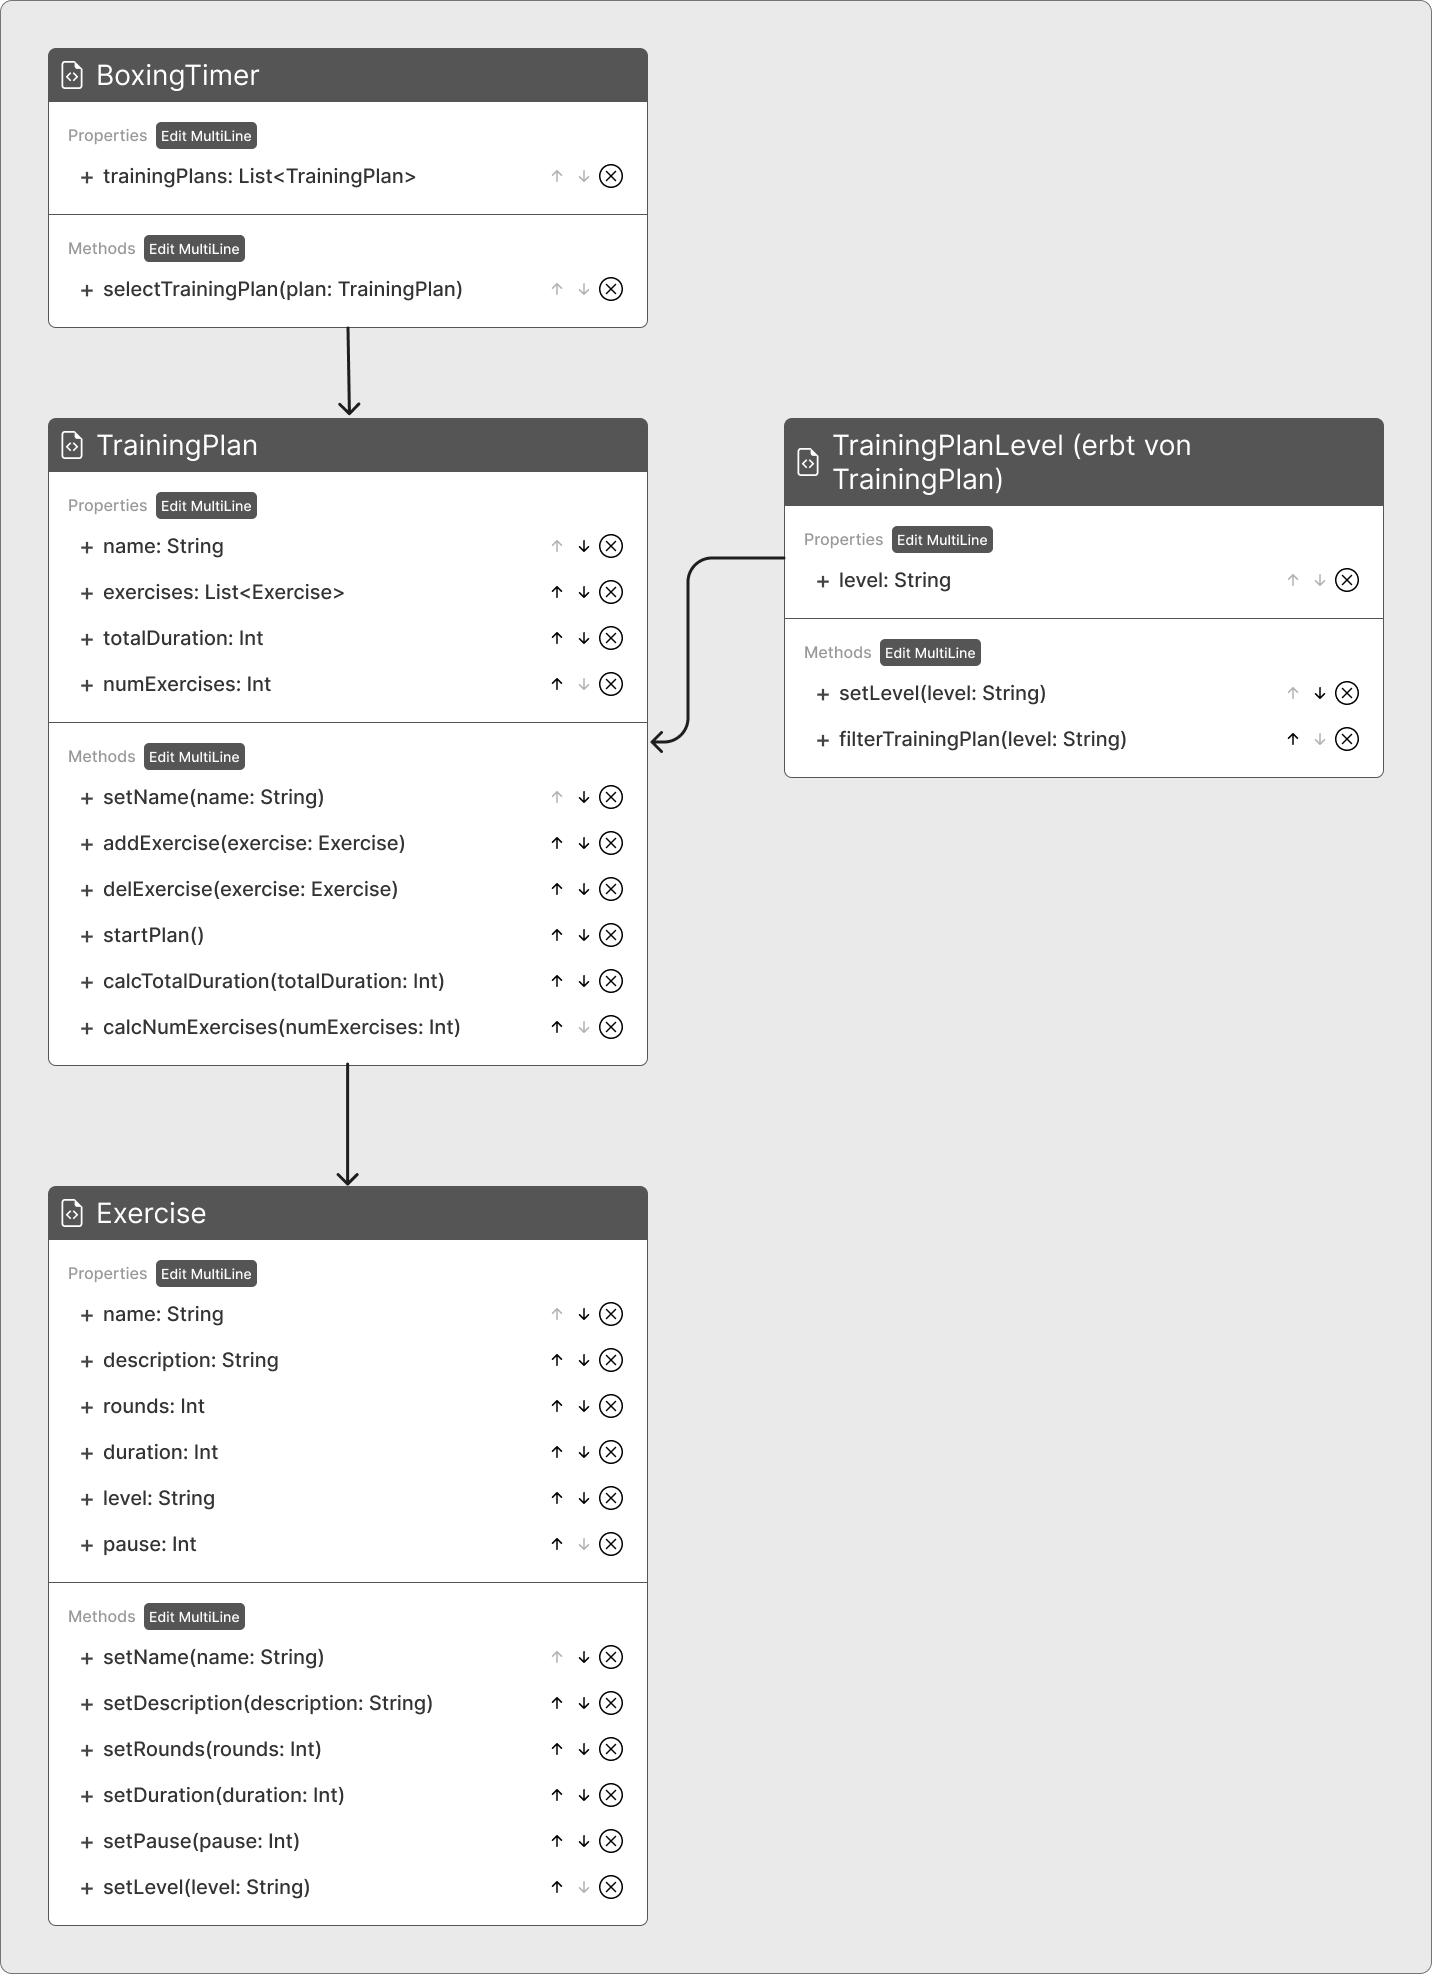
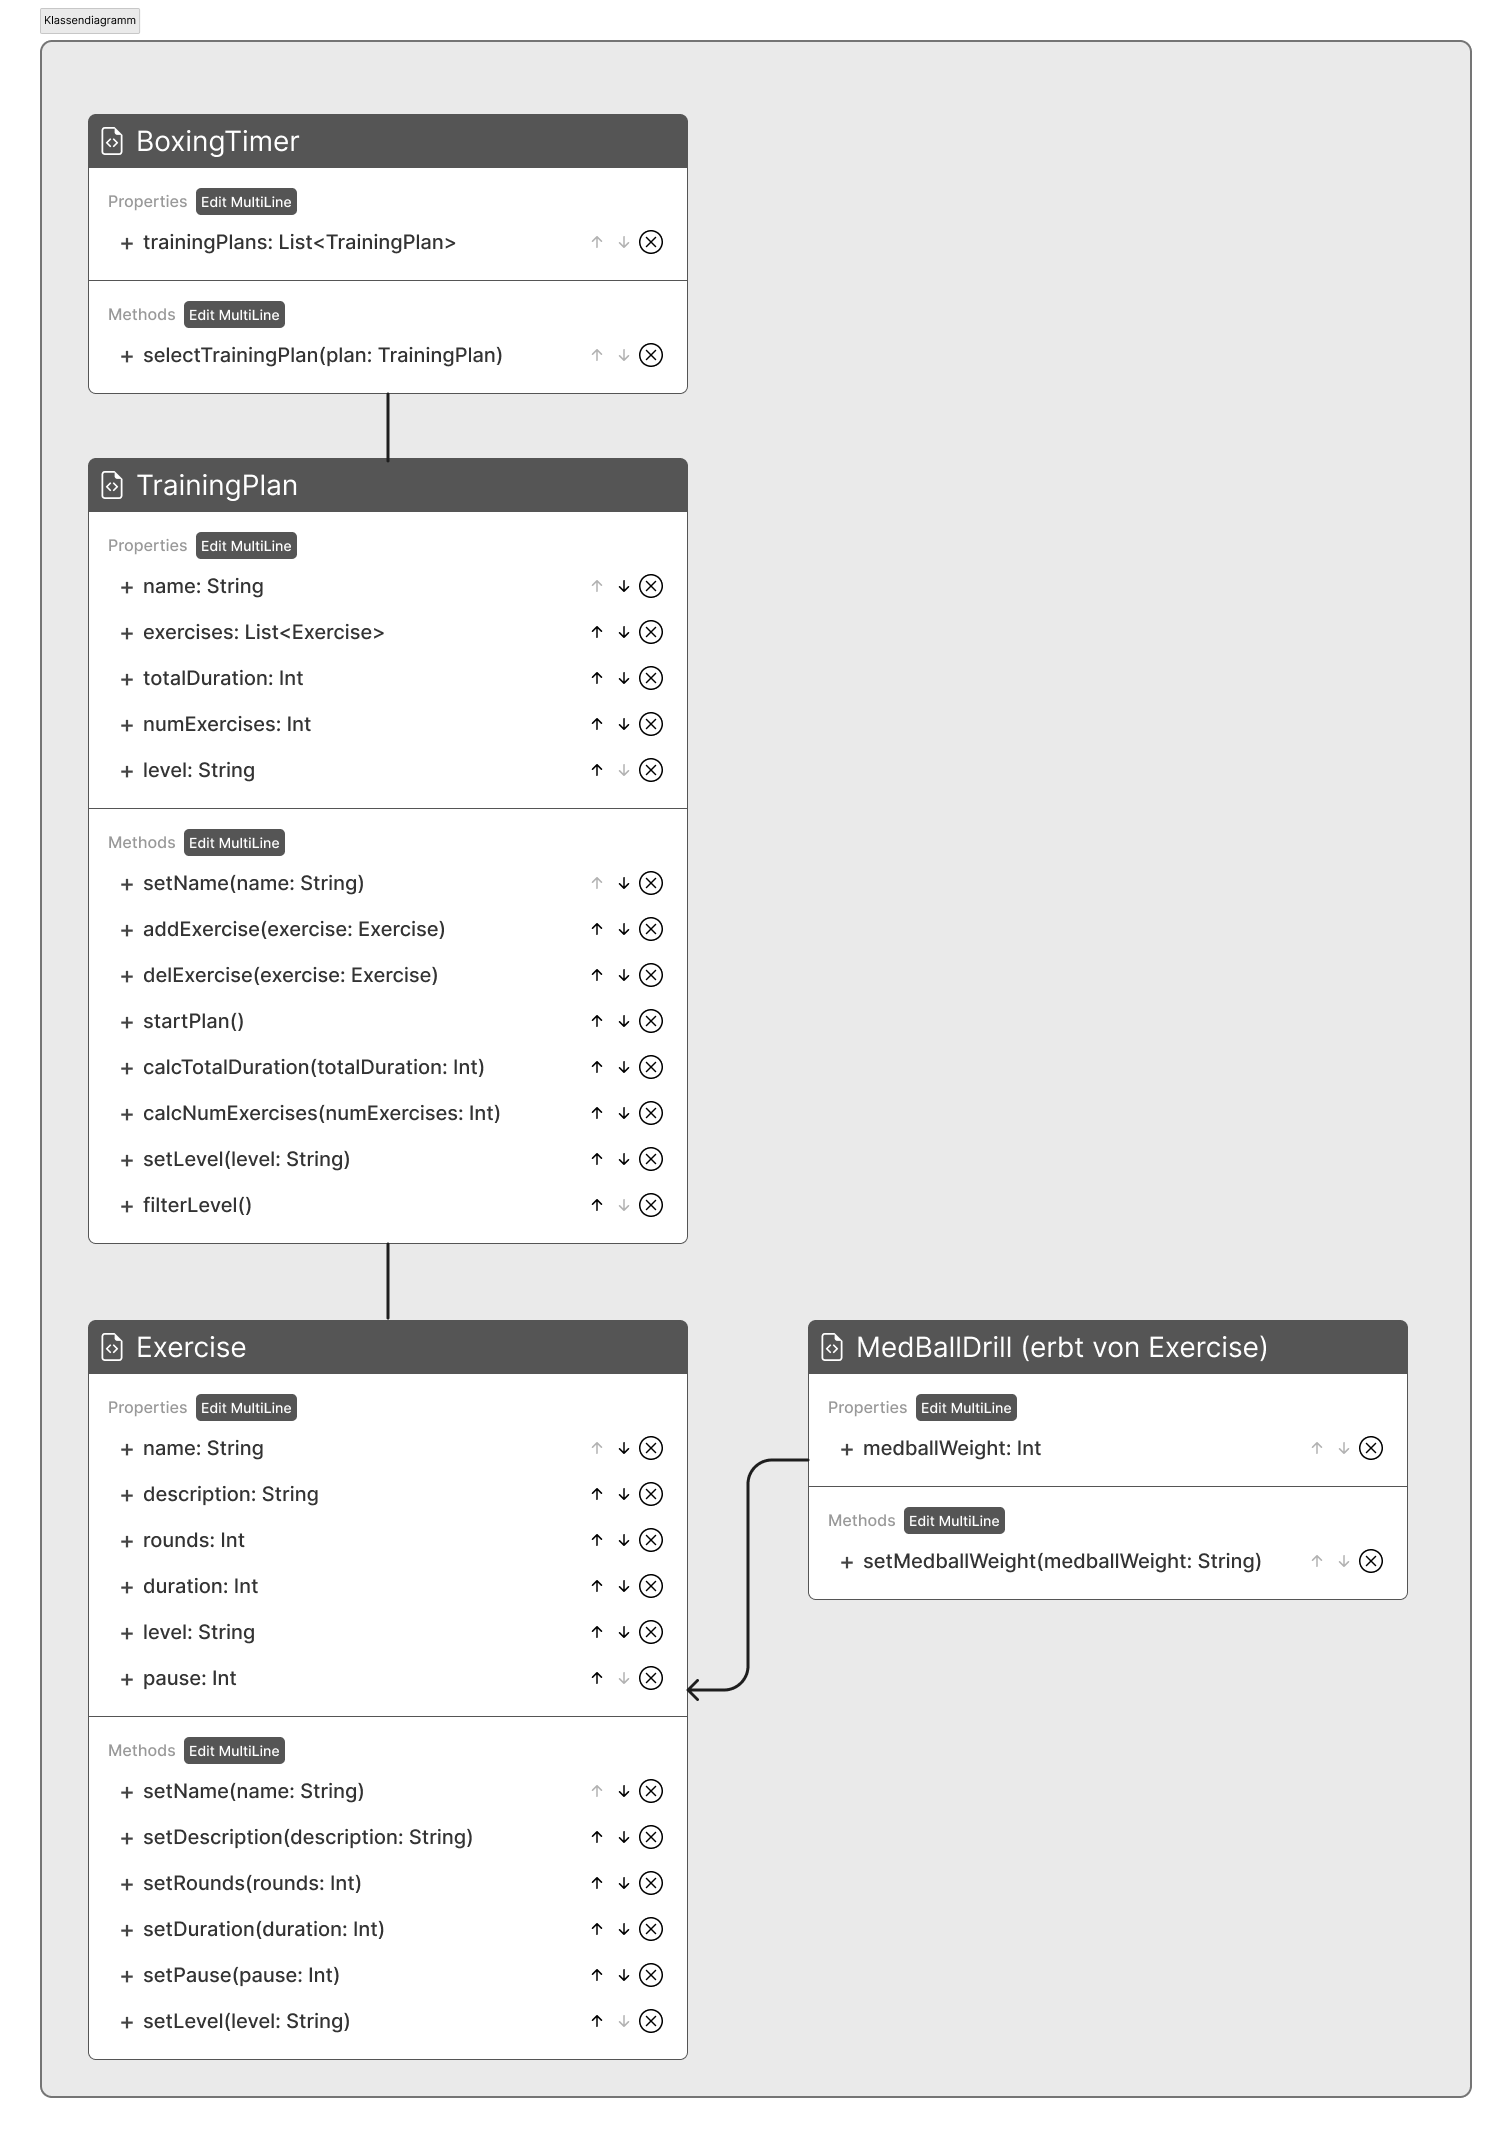
Anpassung Vererbung

diff --git a/src/test/kotlin/Test.kt b/src/test/kotlin/Test.kt
@@ -1,0 +1,3 @@
+fun main(){
+    //TODO: Tests erstellen
+}

diff --git a/src/utils/Utils.kt b/src/utils/Utils.kt
@@ -1,0 +1,1 @@
+//TODO: --

diff --git a/README.md b/README.md
@@ -1,62 +1,66 @@
 <img align="right" width="50" height="50" src="img/syntaxLogo.png">
 
-# BoxingTimer
+## # BoxingTimer
 
-This project contains a Boxing Timer application with various levels and exercises. 
+Dieses Projekt enthält eine Boxing Timer-Anwendung mit verschiedenen Übungen und Schwierigkeitsgraden.
 
-## Classes
+## Hauptklassen
 
 <img src="img/Klassendiagramm.png" alt="BoxingTimer Klassendiagramm">
 
 ### BoxingTimer
 
-BoxingTimer class manages a list of training plans.
+Die Klasse BoxingTimer verwaltet eine Liste von Trainingsplänen. Jeder dieser Pläne kann ausgewählt und ausgeführt werden.
 
-- **Properties**:
-  - `trainingPlans`: List of `TrainingPlan`
-- **Methods**:
-  - `selectTrainingplan(plan: TrainingPlan)`: Selects a particular training plan.
+- **Eigenschaften**:
+  - `trainingPlans`: Eine Liste der zur Verfügung stehenden Trainingspläne.
+- **Methoden**:
+  - `selectTrainingplan(plan: TrainingPlan)`: Diese Methode ermöglicht die Auswahl eines bestimmten Trainingsplans aus der Liste der verfügbaren Pläne.
 
 ### TrainingPlan
 
-TrainingPlan class represents a training plan, which consists of a list of exercises.
+Die Klasse TrainingPlan repräsentiert einen Trainingsplan, der aus einer Liste von Übungen besteht. Jeder Trainingsplan hat einen Namen, einen Schwierigkeitsgrad und speichert die Gesamtdauer sowie die Anzahl der Übungen.
 
-- **Properties**:
-  - `name`: String
-  - `exercises`: List of `Exercise`
-  - `totalDuration`: Int
-  - `numExercises`: Int
-- **Methods**:
-  - `setName(name: String)`: Sets the name of the training plan.
-  - `addExercise(exercise: Exercise)`: Adds an exercise to the plan.
-  - `delExercise(exercise: Exercise)`: Removes an exercise from the plan.
-  - `startPlan()`: Runs through each exercise in `exercises`, starts a timer based on the duration of the exercise, and prints corresponding hints in the console.
-  - `calcTotalDuration()`: Calculates the total duration of the training plan.
-  - `calcNumExercises()`: Calculates the number of exercises in the training plan.
-
-### TrainingPlanLevel
-
-TrainingPlanLevel class is a specialized version of `TrainingPlan` class, additionally including a difficulty level.
-
-- **Properties**:
-  - `level`: Difficulty level as String (e.g., light, medium, heavy)
-- **Methods**:
-  - `filterTrainingPlan(level: String)`: Filters `TrainingPlan` by `Exercise` with `level`.
+- **Eigenschaften**:
+  - `name`: Der Name des Trainingsplans.
+  - `exercises`: Eine Liste der Übungen, die im Trainingsplan enthalten sind.
+  - `totalDuration`: Die Gesamtdauer des Trainingsplans in Sekunden.
+  - `numExercises`: Die Anzahl der Übungen im Trainingsplan.
+  - `level`: Der Schwierigkeitsgrad des Trainingsplans.
+- **Methoden**:
+  - `setName(name: String)`: Legt den Namen des Trainingsplans fest.
+  - `addExercise(exercise: Exercise)`: Fügt eine Übung zum Trainingsplan hinzu.
+  - `delExercise(exercise: Exercise)`: Entfernt eine Übung aus dem Trainingsplan.
+  - `startPlan()`: Diese Methode startet den Trainingsplan. Sie durchläuft jede Übung in der Liste `exercises`, startet einen Timer basierend auf der Dauer jeder Übung und gibt entsprechende Hinweise in der Konsole aus.
+  - `calcTotalDuration()`: Diese Methode berechnet die Gesamtdauer des Trainingsplans.
+  - `calcNumExercises()`: Diese Methode berechnet die Anzahl der Übungen im Trainingsplan.
+  - `setLevel(level: String)`: Legt den Schwierigkeitsgrad des Trainingsplans fest.
+  - `filterLevel()`: Filtert Übungen basierend auf dem festgelegten Schwierigkeitsgrad.
 
 ### Exercise
 
-Exercise class represents an exercise.
+Die Klasse Exercise repräsentiert eine einzelne Übung. Jede Übung hat einen Namen, eine Beschreibung, eine Anzahl von Runden, eine Dauer, eine Pause und einen Schwierigkeitsgrad.
 
-- **Properties**:
-  - `name`: String
-  - `description`: String
-  - `rounds`: Integer
-  - `duration`: Int (in seconds)
-  - `break`: Int (in seconds)
-- **Methods**:
-  - `setName(name: String)`: Sets the name of the exercise.
-  - `setDescription(description: String)`: Sets the description of the exercise.
-  - `setRounds(rounds: Int)`: Sets the number of rounds.
-  - `setDuration(duration: Int)`: Sets the duration of the exercise.
-  - `setBreak(break: Int)`: Sets the break time.
-  - `setLevel(level: String)`: Sets the difficulty level of the exercise.
+- **Eigenschaften**:
+  - `name`: Der Name der Übung.
+  - `description`: Eine Beschreibung der Übung.
+  - `rounds`: Die Anzahl der Runden, die in der Übung durchgeführt werden sollen.
+  - `duration`: Die Dauer jeder Runde in Sekunden.
+  - `pause`: Die Dauer der Pause zwischen den Runden in Sekunden.
+  - `level`: Der Schwierigkeitsgrad der Übung.
+- **Methoden**:
+  - `setName(name: String)`: Legt den Namen der Übung fest.
+  - `setDescription(description: String)`: Legt die Beschreibung der Übung fest.
+  - `setRounds(rounds: Int)`: Legt die Anzahl der Runden fest.
+  - `setDuration(duration: Int)`: Legt die Dauer jeder Runde fest.
+  - `setPause(pause: Int)`: Legt die Dauer der Pause zwischen den Runden fest.
+  - `setLevel(level: String)`: Legt den Schwierigkeitsgrad der Übung fest.
+
+### MedBallDrill
+
+Die Klasse MedBallDrill ist eine spezielle Art von Übung, die von der Klasse Exercise erbt. Sie fügt die Eigenschaft "Gewicht des Medizinballs" hinzu, sodass die Größe des Medizinballs an den Schwierigkeitsgrad angepasst werden kann.
+
+- **Eigenschaften**:
+  - `medballWeight`: Das Gewicht des Medizinballs in Kilogramm.
+- **Methoden**:
+  - `setMedballWeight(medballWeight: Int)`: Legt das Gewicht des Medizinballs fest.
